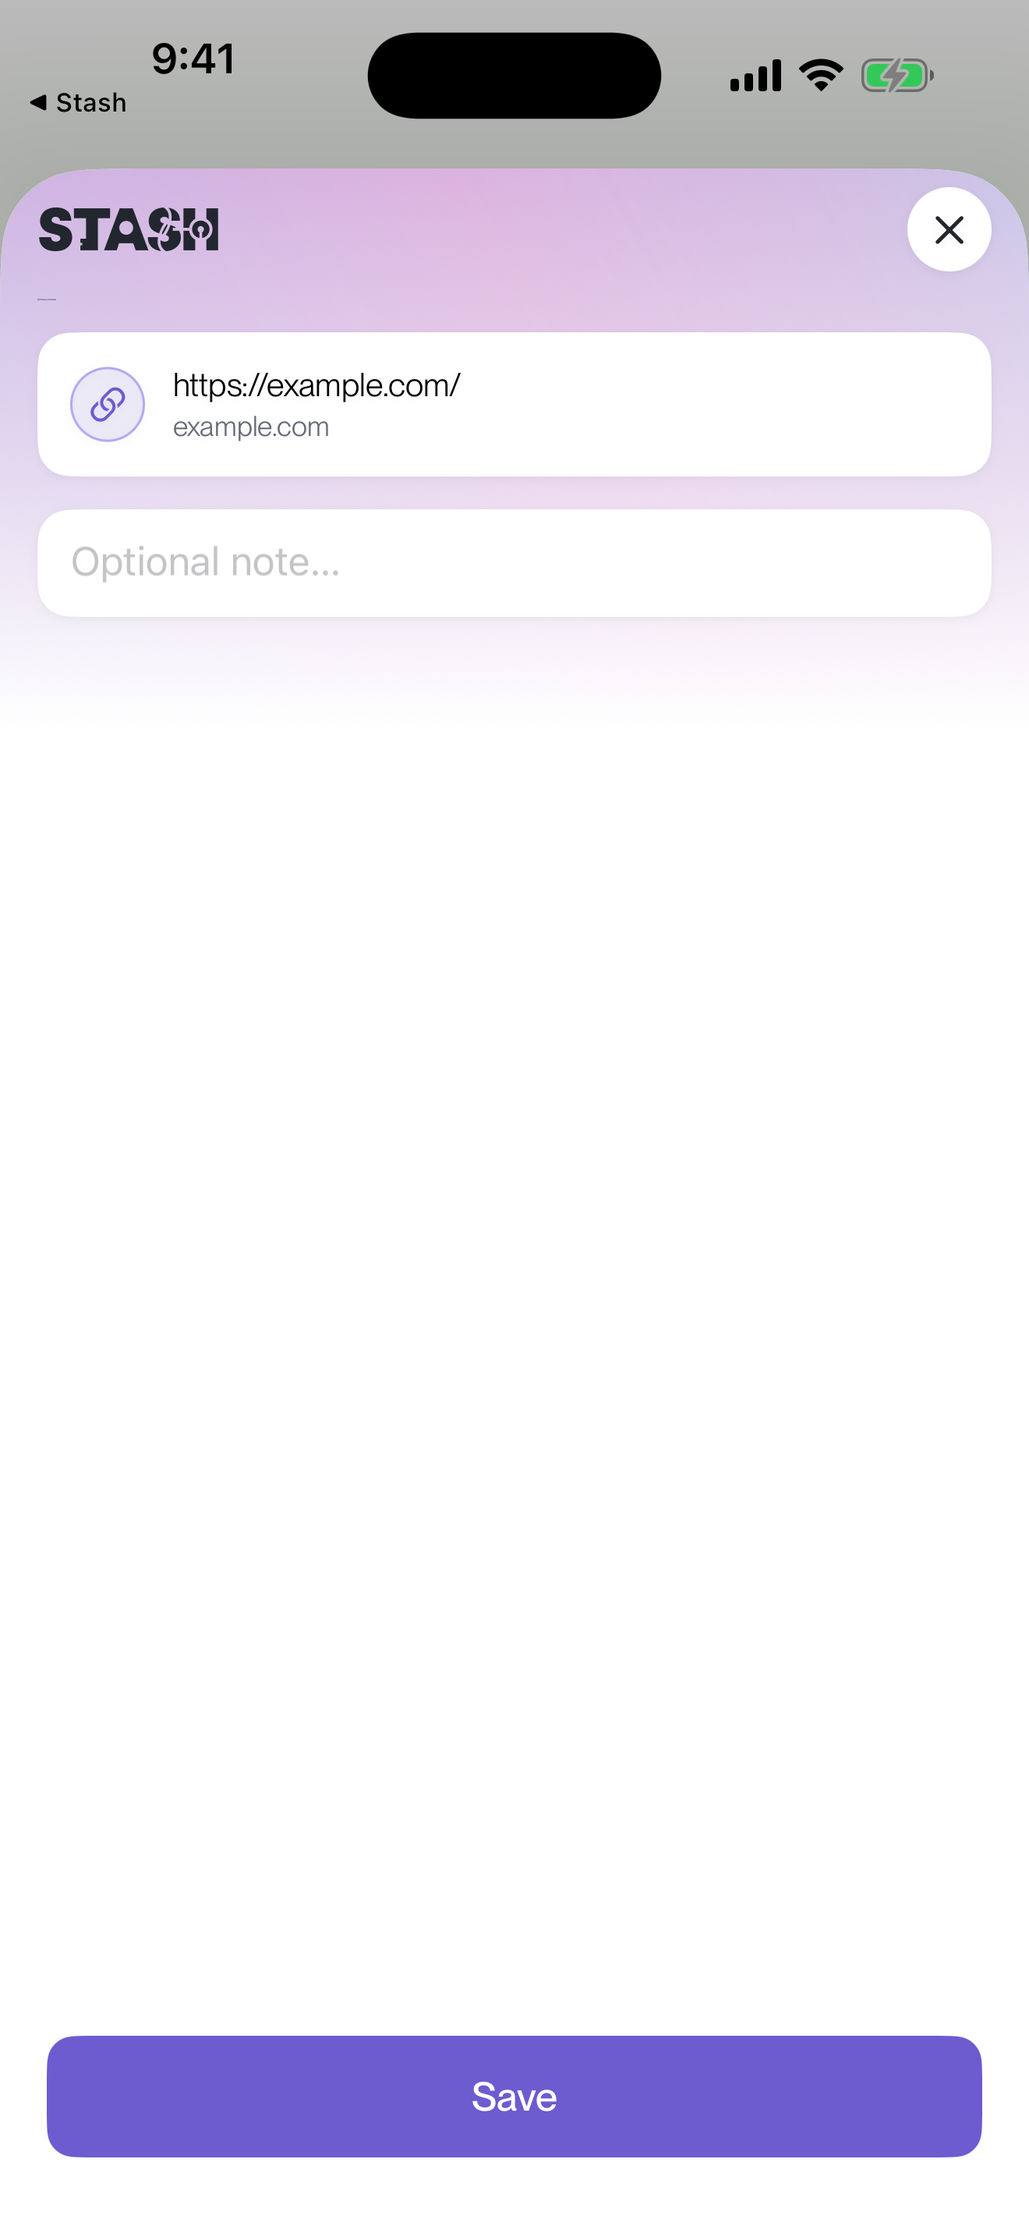
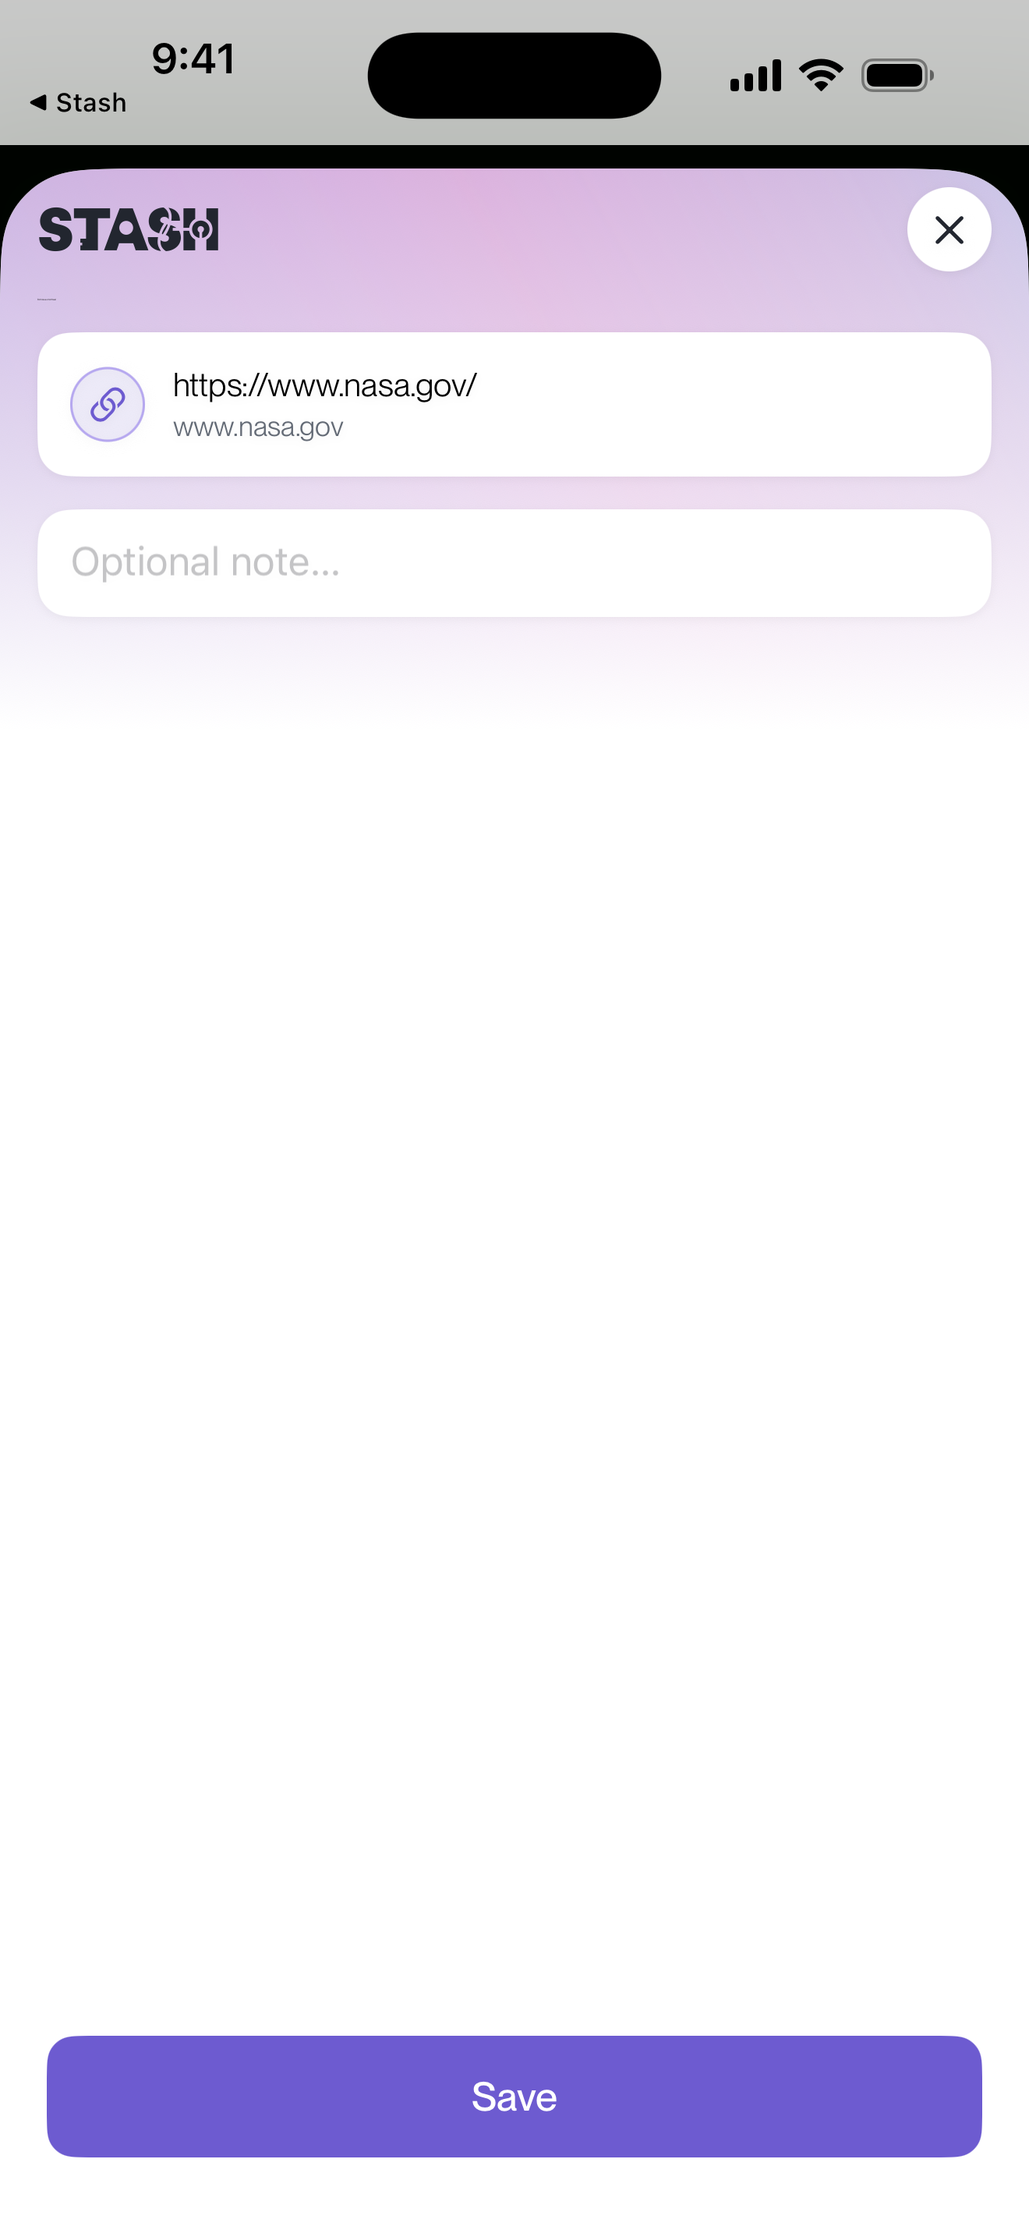
chore(ios): plan-14 T4b — retake store screenshots 01 and 05
Also folds in whole-branch review findings: cut external-purchase
steering language from the ASC description and review notes, corrects
the account-deletion path in review notes, reshoots all six screenshots
with a non-charging status bar and keyboard-free composer/Ask frames,
and declares Search History (Ask conversation history) in the App
Privacy answers doc and both PrivacyInfo.xcprivacy manifests.

Changed region(s): [[0.0, 0.031, 1.0, 0.1241], [0.1864, 0.1552, 0.4659, 0.2172]]

diff --git a/ios/StashUITests/StoreScreenshotsUITests.swift b/ios/StashUITests/StoreScreenshotsUITests.swift
@@ -398,6 +398,11 @@ final class StoreScreenshotsUITests: XCTestCase {
         // --- 01: View library (cards with images) ---
         XCTAssertTrue(anyElement("library.grid").waitForExistence(timeout: 15), "Library grid did not appear")
         sleep(3)   // let card images finish loading in from cache/network
+        // No scroll: with the raw-UUID-filename voice note deleted via REST (task-4b retake), the
+        // newest-first grid already leads with the seeded photo card, and the frame's own height
+        // shows the start of the first enriched link card (real og-image) right below it.
+        // Confirmed live that BOTH a full `.swipeUp()` and a shorter partial drag scrolled the
+        // photo card off the top of the frame entirely — the opposite of what's needed here.
         checkpoint("01-view-library")
 
         // --- 02: Detail sheet of a link ---
@@ -430,11 +435,16 @@ final class StoreScreenshotsUITests: XCTestCase {
         let draftLine = "Remember to check the gallery opening this weekend"
         editor.tap()
         editor.typeText(draftLine)
-        sleep(2)
-        checkpoint("03-add-composer")
+        sleep(1)
+        // Dismisses the keyboard BEFORE the checkpoint (task-4b reshoot) via the composer's own
+        // "Cancel" header control — "dismiss keyboard only, draft preserved" per its own doc
+        // comment — so the frame shows the typed line AND the bottom action-button bar (photo/
+        // camera/file/mic + send), not half a screen of software keyboard.
         if app.buttons["capture.dismissKeyboard"].waitForExistence(timeout: 5) {
             app.buttons["capture.dismissKeyboard"].tap()
         }
+        sleep(1)
+        checkpoint("03-add-composer")
         editor.tap()
         editor.typeText(String(repeating: XCUIKeyboardKey.delete.rawValue, count: draftLine.count))
         if app.buttons["capture.dismissKeyboard"].waitForExistence(timeout: 3) {
@@ -504,21 +514,43 @@ final class StoreScreenshotsUITests: XCTestCase {
         XCTAssertFalse(assistantBubble.label.trimmingCharacters(in: .whitespaces).isEmpty,
                        "Expected a non-empty assistant answer")
         sleep(2)
-        checkpoint("04-ask-answer")
-
-        // Fresh relaunch rather than switching tabs directly out of Ask: confirmed live (task-4b)
-        // that the Ask composer's `TextField` (`ChatComposerBar.swift`) has no focus-management or
-        // `.onSubmit` of its own to resign via — unlike the Add tab's search field, which exposes
-        // `library.search.clear` for exactly this. A software-keyboard `swipeDown()` gesture was
-        // tried as a generic dismiss and rejected: it landed near enough to the keyboard's own
-        // dictation control to pop a system "Enable Dictation?" prompt and background the app
-        // entirely (see task-4b-report.md). Relaunching sidesteps the still-focused keyboard
-        // altogether and reuses `signInAsReviewAndReachLibrary`'s already-proven cold-launch path
-        // (a bare relaunch never re-shows the onboarding panel once it's been marked seen this
-        // run) — no less realistic a screenshot precondition than a warm tab switch.
+        // Relaunches BEFORE the checkpoint (task-4b reshoot) so the frame shows the answer with
+        // its citation, not half a screen of software keyboard. `ChatComposerBar`'s `TextField`
+        // has no focus-management of its own to resign via (unlike the Add tab's search field),
+        // and four in-process approaches were tried and rejected first: (1)
+        // `app.keyboards.element.swipeDown()` once popped a one-time system "Enable Dictation?"
+        // sheet and backgrounded the app; (2) a manual press-then-drag across letter keys was
+        // mistaken for swipe-to-type and left garbage text in the input field; (3) a tab hop and
+        // (4) an `ask.history`-push/nav-bar-pop round trip both failed live for the same root
+        // cause — `askInput`'s `@FocusState` is bound at the `AskView` struct's own level, which
+        // NavigationStack/TabView keep alive rather than recreating, so the field silently regains
+        // focus the instant the view is back on screen; (5) tapping a different, unrelated control
+        // (the bubble's own "speak" icon) also didn't resign it — this app's `@FocusState` simply
+        // isn't tied to UIKit's ordinary responder-resignation behavior the way a plain
+        // `UITextField` would be. Only tearing down the process actually drops it.
+        //
+        // Relaunching is safe for THIS frame specifically — unlike the step-04→05 relaunch below,
+        // which deliberately avoids reopening Ask at all — because `ChatHistoryAPI.loadHistory`'s
+        // own doc comment confirms it reconstructs a bare-id `ChatSource` stand-in for every
+        // historical citation on reload (fallback title "Item N" per `ChatBubble.displayTitle`),
+        // and the inline "[1]" is already baked into the persisted `content` string at streaming
+        // time — so the restored bubble is NOT sourceless, contradicting an older assumption
+        // elsewhere in this codebase (confirmed by reading `loadHistory`'s current implementation
+        // directly, task-4b).
         app.terminate()
         XCTAssertTrue(signInAsReviewAndReachLibrary(app, email: email, password: password),
-                      "Expected to reach the review account's library after relaunching for step 05")
+                      "Expected to reach the review account's library after relaunching for step 04's screenshot")
+        tapTab("Ask")
+        XCTAssertTrue(askInput.waitForExistence(timeout: 10), "Ask input field did not appear after relaunch")
+        XCTAssertFalse(app.keyboards.element.exists, "Expected no keyboard on a fresh Ask tab load")
+        let restoredAnswer = anyElement("ask.bubble.1")
+        XCTAssertTrue(restoredAnswer.waitForExistence(timeout: 15), "Expected the restored assistant answer to render")
+        sleep(1)
+        checkpoint("04-ask-answer")
+
+        // No second relaunch needed here: the relaunch above (for step 04's own keyboard-free
+        // screenshot) already leaves the app keyboard-free and idle on the Ask tab, so this can
+        // switch tabs directly.
 
         // --- 05: Share sheet, Safari → Stash compose card ---
         tapTab("Settings")
@@ -533,11 +565,14 @@ final class StoreScreenshotsUITests: XCTestCase {
         addressBar.tap()
         let urlField = safari.textFields["URL"]
         XCTAssertTrue(urlField.waitForExistence(timeout: 5), "Safari URL edit field not found after tapping the address bar")
-        // example.com, not apple.com: matches `StashUITests.testShareExtensionURLSmoke`'s own
-        // proven choice — confirmed live (task-4b) that apple.com's much heavier page load can
-        // leave Safari's toolbar in a state where "ShareButton" never appears within a normal
-        // wait window, where example.com's near-instant load never has that problem.
-        urlField.typeText("example.com\n")
+        // www.nasa.gov, not example.com: task-4b retake — a recognizable real page reads far
+        // better in the compose-card screenshot than "example.com", and it loads fast enough
+        // (unlike apple.com, whose much heavier page can leave Safari's toolbar without a
+        // "ShareButton" within a normal wait window) not to reintroduce that flake. The
+        // nasa.gov link already exists in the review account (seeded by
+        // `testSeedReviewAccountContent`), so this flow captures the compose state and cancels —
+        // it must never tap Save, which would create a duplicate.
+        urlField.typeText("www.nasa.gov\n")
         // On the iPhone 17 Pro Max's wider toolbar (confirmed live via a throwaway diagnostic
         // dump, task-4b), Safari collapses the dedicated Share icon into a "MoreMenuButton" ("•••")
         // — a direct "ShareButton" never appears on the bottom bar itself here, only inside that
@@ -597,4 +632,5 @@ final class StoreScreenshotsUITests: XCTestCase {
         let skipButton = app.buttons["onboarding.skip"]
         if skipButton.waitForExistence(timeout: 5) { skipButton.tap() }
     }
+
 }

diff --git a/docs/app-store/2026-09-13-listing.md b/docs/app-store/2026-09-13-listing.md
@@ -55,12 +55,12 @@ How you find it again:
 • Search across everything you've saved
 • Ask Stash a question and get an answer with a link to the source item
 
-Stash is free to download; an active Stash subscription from gostash.it is needed to save new items. Manage your subscription anytime at gostash.it.
+Stash is free to download. An active Stash subscription is required to save new items.
 
 Your stash is private by default. Nothing you save is used to train AI models, shown to other people, or sold.
 ```
 
-(Character count: 1,929 of 4000.)
+(Character count: 1,867 of 4000.)
 
 ## Keywords (≤100 chars, comma-separated, no spaces after commas)
 
@@ -116,14 +116,14 @@ Demo account: will+review@dzierson.com
 Password: see ios/.env.test.local (STASH_REVIEW_PASSWORD) — entered only into the App Store Connect "Sign-In Required" password field, not included in this note.
 Contact: +1 415 583 3525
 
-Business model: Stash is a free, stand-alone companion app to the paid Stash web service (gostash.it), offered under App Review Guideline 3.1.3(f) (free stand-alone apps as a companion to a paid web-based tool). There is no in-app purchase and no in-app subscription flow — subscriptions are created and managed entirely on gostash.it, outside the app. The app itself does not sell, unlock, or gate any digital content via Apple's in-app purchase system.
+Business model: Stash is a free, stand-alone companion app to the paid Stash web service (gostash.it), offered under App Review Guideline 3.1.3(f) (free stand-alone apps as a companion to a paid web-based tool). There is no in-app purchase and no in-app subscription flow — the subscription is provisioned entirely outside the app, on the web service noted above. The app itself does not sell, unlock, or gate any digital content via Apple's in-app purchase system.
 
 How to review:
 1. Sign in with the demo account above. The View tab already has seeded content (links, a photo, a note, a voice note) so there's something to browse and ask about immediately — no need to create content first.
 2. The system share sheet (from Safari, Photos, or any other app) is the app's primary capture path — try sharing a link or photo into Stash to see it land in the library.
 3. The Ask tab lets you ask a question in plain language about what's saved and returns an answer with a citation linking back to the source item.
 4. Location tagging and microphone/voice-note capture are both opt-in features the user turns on explicitly; neither is required to use the app.
-5. Account deletion is available in Settings → Your Information → Delete account, and takes effect immediately.
+5. Account deletion is available in Settings tab → scroll to the bottom → Delete account, and takes effect immediately.
 
 Thank you for reviewing Stash.
 ```
@@ -156,7 +156,13 @@ of truth for what's actually live vs. still just drafted copy above.
   above. `whatsNew` was rejected by ASC (`409 STATE_ERROR`, "cannot be
   edited at this time") — Apple only allows What's New starting with a
   version's second release; "First release." above is what to set once 1.1
-  makes the field editable.
+  makes the field editable. **Re-PATCHed 2026-09-14** (whole-branch review
+  finding A): the description's closing sentence originally read "an active
+  Stash subscription from gostash.it is needed to save new items. Manage
+  your subscription anytime at gostash.it." — steering language naming an
+  external purchase/management destination — cut to the current "An active
+  Stash subscription is required to save new items." and GET-verified to
+  contain neither "gostash.it" nor "Manage your subscription".
 - **appInfoLocalizations** (`6efedb1c-2a3e-4571-8f0a-1a52cdb56f9d`):
   subtitle "Save anything. Ask later." and privacyPolicyUrl live; name
   unchanged ("Stash -- save anything").
@@ -173,17 +179,68 @@ of truth for what's actually live vs. still just drafted copy above.
   created — none existed before): contact info, demo account name, notes
   all live verbatim per the section above; `demoAccountPassword` is set
   from `ios/.env.test.local`'s `STASH_REVIEW_PASSWORD` (never printed or
-  committed).
+  committed). **Re-PATCHed 2026-09-14** (whole-branch review findings A/B):
+  the Business-model paragraph's second `gostash.it` mention ("subscriptions
+  are created and managed entirely on gostash.it, outside the app") was
+  reworded to "the subscription is provisioned entirely outside the app, on
+  the web service noted above" (the first mention, identifying the
+  companion service, stays — required for the 3.1.3(f) justification); step
+  5's path was corrected from "Settings → Your Information → Delete
+  account" (that section doesn't exist) to "Settings tab → scroll to the
+  bottom → Delete account." Both changes GET-verified in the live `notes`
+  field.
 - **Screenshots** (6.9" set `3e44a2e8-ca07-4b9d-bf93-90c5b3c58d30`): all six
-  frames uploaded and `assetDeliveryState.state == COMPLETE`:
+  frames uploaded and `assetDeliveryState.state == COMPLETE`, in order:
   `01-view-library.png`, `02-detail-link.png`, `03-add-composer.png`,
   `04-ask-answer.png`, `05-share-compose.png`, `06-share-tutorial-panel2.png`
-  (all exactly 1320×2868, all ≤1.5MB, PNGs live in
+  (all exactly 1320×2868, all ≤1.5MB — 03 and the initial 01/02/06 needed a
+  lossless PNG re-save, `PIL` `optimize=True`/`compress_level=9`, confirmed
+  pixel-identical, to clear the limit — PNGs live in
   `docs/app-store/screenshots/1.0/`). One correction to this plan's own
   assumption: ASC's `screenshotDisplayType` enum has no `APP_IPHONE_69`
   value (the live API rejects it and lists the accepted set) — the
   6.9"/1320×2868 class is still addressed as `APP_IPHONE_67` on this API
   version, so that's the value the set above actually uses.
+  **Reshot 2026-09-14** (coordinator follow-up + whole-branch review finding
+  C), all six replaced (old assets deleted, new ones uploaded, ordering
+  re-PATCHed via `relationships/appScreenshots` and re-verified — current
+  ids: `ed5a2883-…` (01), `f2ce8bac-…` (02), `b8d05b4c-…` (03),
+  `db98a01c-…` (04), `fd86e7b3-…` (05), `59289206-…` (06)):
+  - The review account's voice-note item (`1951761a-…m4a`, raw UUID
+    filename title, "no speech was detected" — the sim has no mic) was
+    deleted via REST (verified by id AND title before deleting; the photo,
+    3 links, and note were left untouched) so 01 no longer leads with it —
+    the mountain photo now sorts first, with the note and an enriched link
+    (real og-image) visible below it.
+  - 05 now shares `https://www.nasa.gov` (already seeded, so this capture
+    cancels rather than saves) instead of `example.com`, for a recognizable
+    URL in the compose card.
+  - Status bar reshot with `--batteryState discharging --batteryLevel 100`
+    (a solid, non-charging battery glyph) for a consistent set.
+  - 03 and 04 now dismiss the keyboard before capturing. 03 uses the
+    composer's own `capture.dismissKeyboard` control. 04 needed five
+    iterations to find a working approach — `ChatComposerBar`'s `TextField`
+    has no focus-management to resign via, a keyboard swipe gesture once
+    popped a system "Enable Dictation?" prompt and backgrounded the app, a
+    manual key-by-key drag typed garbage into the field, and neither a tab
+    hop nor an `ask.history` push/pop round trip actually dropped focus
+    (`@FocusState` is bound at the `AskView` struct level, which
+    NavigationStack/TabView keep alive, so it silently regains focus the
+    instant the view reappears) — what worked was relaunching the app after
+    asking: `ChatHistoryAPI.loadHistory`'s own doc comment confirms a
+    reloaded conversation still gets a citation-chip stand-in (fallback
+    title "Item N") and the inline `[1]` is already baked into the
+    persisted content, so the restored bubble is not actually sourceless,
+    contradicting an older assumption elsewhere in this codebase.
+- **App Privacy**: `docs/app-store/2026-09-13-app-privacy-answers.md` and
+  both `PrivacyInfo.xcprivacy` manifests (`ios/Stash/`,
+  `ios/StashShareExtension/`) now also declare **Search History**
+  (collected, linked to identity, App Functionality only, not tracking) —
+  the Ask tab's questions/answers persist server-side as conversation
+  history (visible via the history icon in the Ask header), which is
+  in-app ask/search history, not web browsing history. Not push-able via
+  the API; picked up automatically the next time these files ship in a
+  build.
 - **Not done by design**: attaching a build to this version record, App
   Privacy nutrition-label answers (not settable via this API), and the
   Submit-for-Review click — see `docs/RELEASING.md` for exactly who does

diff --git a/docs/app-store/2026-09-13-app-privacy-answers.md b/docs/app-store/2026-09-13-app-privacy-answers.md
@@ -26,11 +26,12 @@ purposes selected for any type).
 | Audio Data | Yes | Yes | No | App Functionality |
 | Other User Content | Yes | Yes | No | App Functionality |
 | Coarse Location | Yes | Yes | No | App Functionality |
+| Search History | Yes | Yes | No | App Functionality |
 
-Everything else on Apple's full list (Precise Location, Contacts, Search
-History, Browsing History, Health & Fitness, Financial Info, Purchases,
-Identifiers/Device ID beyond the account User ID, Usage Data, Diagnostics,
-Advertising Data, etc.) — **not collected**.
+Everything else on Apple's full list (Precise Location, Contacts, Browsing
+History, Health & Fitness, Financial Info, Purchases, Identifiers/Device ID
+beyond the account User ID, Usage Data, Diagnostics, Advertising Data,
+etc.) — **not collected**.
 
 ## Why each type is declared this way
 
@@ -61,14 +62,21 @@ Advertising Data, etc.) — **not collected**.
   "Precise Location" threshold. If a future change starts requesting a finer
   accuracy, re-run this check and switch the manifests + this doc to
   Precise Location before shipping.
+- **Search History** — the questions typed into the Ask tab and their
+  answers persist server-side (Ask conversation history, visible via the
+  history icon in the Ask header — `AskView.swift`'s
+  `bubble.left.and.text.bubble.right` button) so a user can revisit past
+  threads. This is in-app search/ask history, not web browsing history —
+  declared as **App Functionality** only (not used to build an advertising
+  profile, not shared with third parties, not used for tracking).
 
 ## Not collected — explicitly ruled out
 
 - **Precise Location** — see above; the app only ever requests
   hundred-meter accuracy.
-- **Contacts, Browsing/Search History, Health & Fitness, Financial Info,
+- **Contacts, Browsing History, Health & Fitness, Financial Info,
   Purchases** — no code paths read or transmit any of these; there is no
-  in-app purchase (subscriptions are managed entirely on gostash.it).
+  in-app purchase (the subscription is provisioned entirely outside the app).
 - **Usage Data / Diagnostics / Advertising Data / any Identifiers used for
   tracking** — no analytics or advertising SDKs are integrated; `Privacy.tsx`
   states "We do not sell your data. We do not show you ads."
